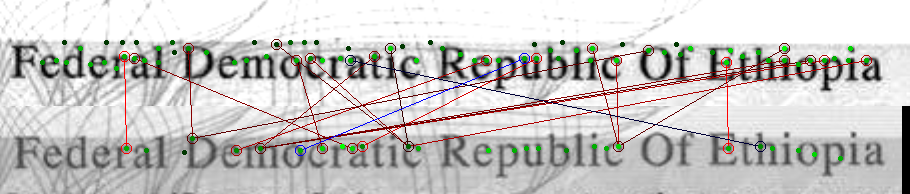
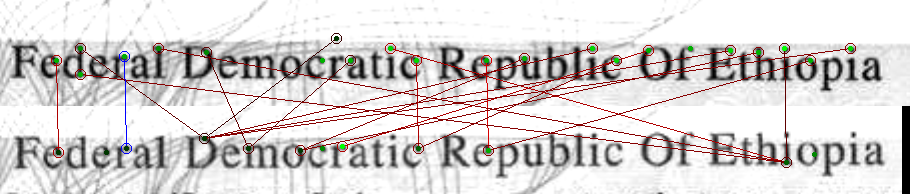
fix(getOrientedFastKeypoints): bug with splice

diff --git a/scripts/featureMatching/featureMatchingTest.ts b/scripts/featureMatching/featureMatchingTest.ts
@@ -15,24 +15,26 @@ import { ImageColorModel, readSync, writeSync } from '../../src';
 import { getBrief } from './getBrief';
 
 const getBriefOptions = {
-  windowSize: 7,
+  windowSize: 15,
   bestKptRadius: 10,
 };
 
 const source = readSync('../../test/img/featureMatching/crop1.png')
   .convertColor(ImageColorModel.GREY)
   .level({ inputMin: 50, inputMax: 200 });
-const sourceBrief = getBrief(source, getBriefOptions);
 
 const destination = readSync('../../test/img/featureMatching/crop3.png')
   .convertColor(ImageColorModel.GREY)
   .level({ inputMin: 50, inputMax: 200 });
-const destinationBrief = getBrief(destination, getBriefOptions);
 
 console.log({
   source: { width: source.width, height: source.height },
   destination: { width: destination.width, height: destination.height },
 });
+
+const sourceBrief = getBrief(source, getBriefOptions);
+const destinationBrief = getBrief(destination, getBriefOptions);
+
 console.log({
   keypoints: {
     sourceLength: sourceBrief.keypoints.length,

diff --git a/src/featureMatching/keypoints/getOrientedFastKeypoints.ts b/src/featureMatching/keypoints/getOrientedFastKeypoints.ts
@@ -49,14 +49,15 @@ export function getOrientedFastKeypoints(
   const borderDistance = getRadius(windowSize);
 
   // handle edge cases: remove keypoints too close to border
-  for (let i = 0; i < fastKeypoints.length; i++) {
-    if (!checkBorderDistance(image, fastKeypoints[i].origin, borderDistance)) {
-      fastKeypoints.splice(i, 1);
+  let keypoints: FastKeypoint[] = [];
+  for (let keypoint of fastKeypoints) {
+    if (checkBorderDistance(image, keypoint.origin, borderDistance)) {
+      keypoints.push(keypoint);
     }
   }
 
   let orientedFastKeypoints: OrientedFastKeypoint[] = [];
-  for (let keypoint of fastKeypoints) {
+  for (let keypoint of keypoints) {
     const centroid = getPatchIntensityCentroid(image, {
       origin: keypoint.origin,
       radius: borderDistance,

diff --git a/src/featureMatching/keypoints/getPatchIntensityMoment.ts b/src/featureMatching/keypoints/getPatchIntensityMoment.ts
@@ -37,8 +37,9 @@ export function getPatchIntensityMoment(
 ): number[] {
   const { origin = image.getCoordinates(ImageCoordinates.CENTER), radius = 3 } =
     options;
+
   if (!checkBorderDistance(image, origin, radius)) {
-    throw new Error('desired patch is too close to image border');
+    throw new Error(`desired patch is too close to image border`);
   }
 
   let moment = new Array(image.channels).fill(0);

diff --git a/scripts/featureMatching/getBrief.ts b/scripts/featureMatching/getBrief.ts
@@ -21,7 +21,6 @@ export interface GetBriefOptions {
  */
 export function getBrief(image: Image, options: GetBriefOptions = {}): Brief {
   const { windowSize = 15, bestKptRadius = 10 } = options;
-
   const allSourceKeypoints = getOrientedFastKeypoints(image, {
     windowSize,
   });
